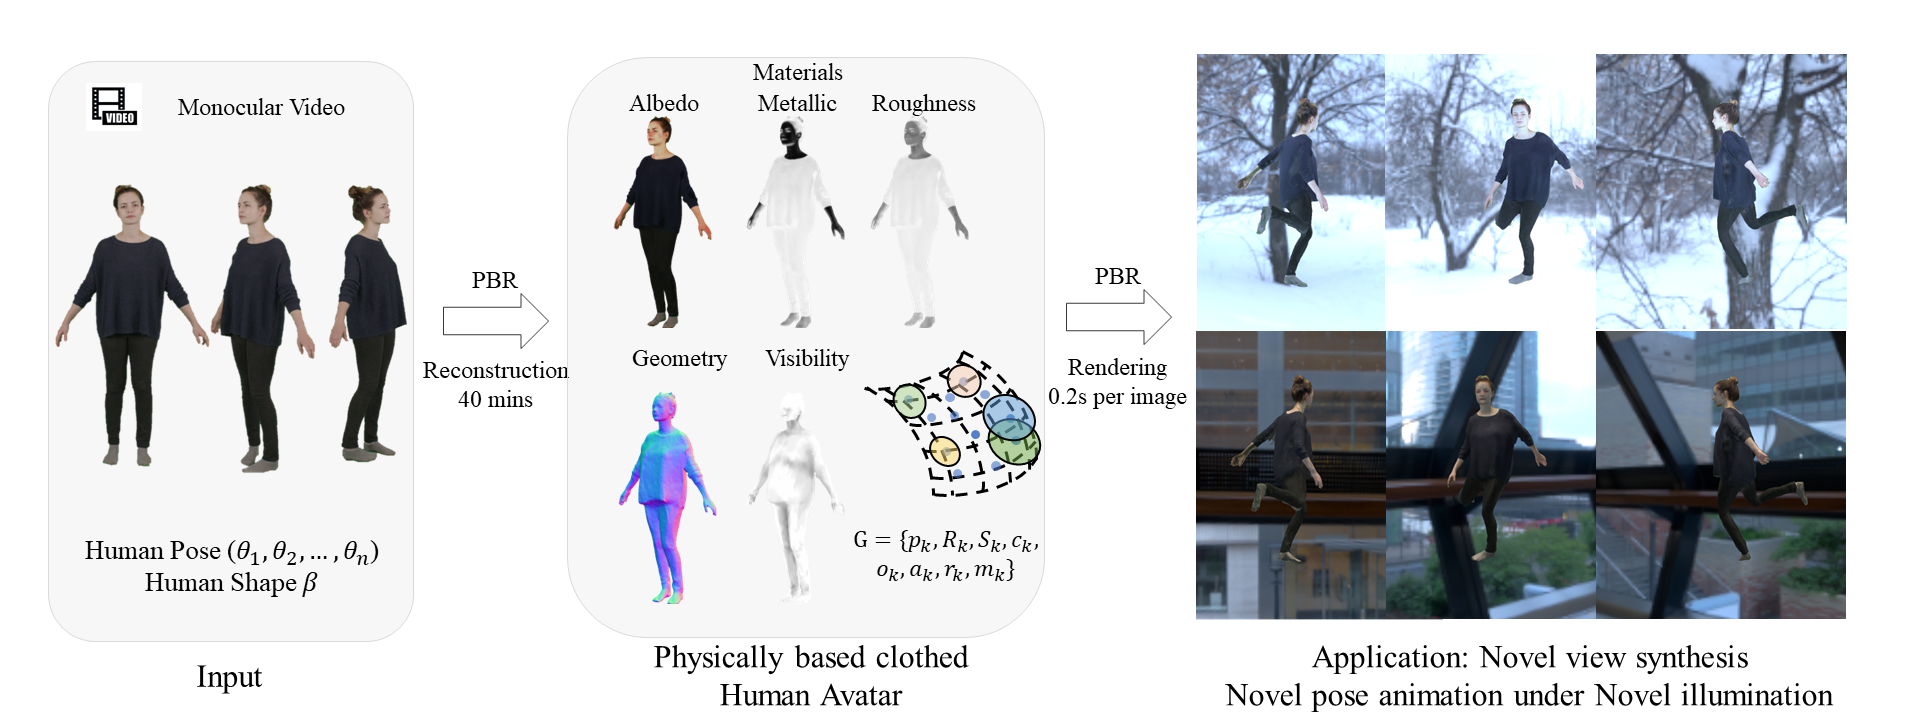
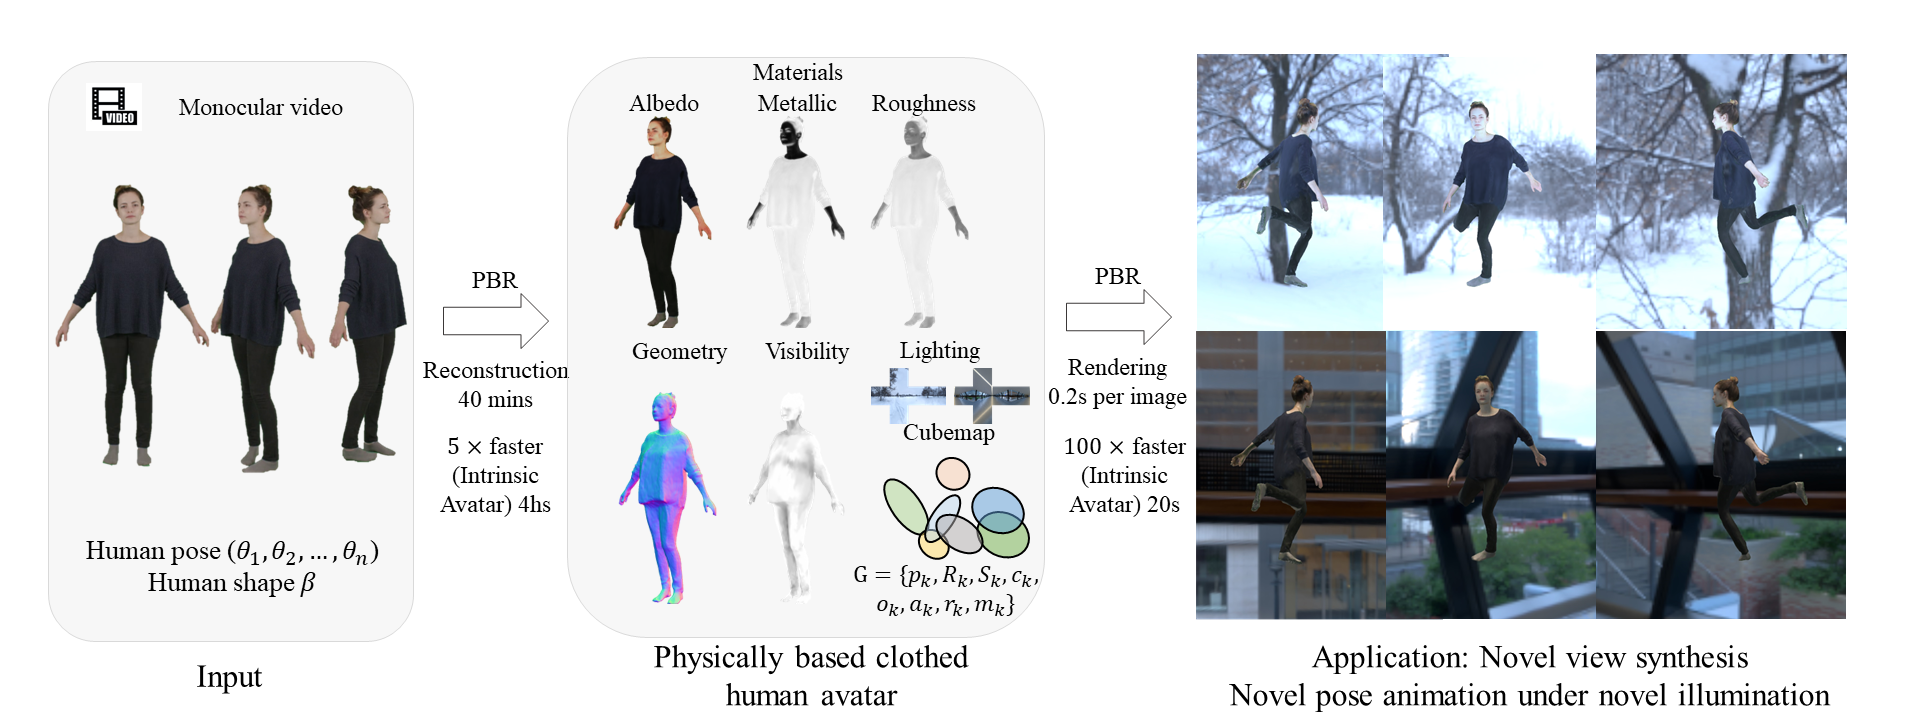
update teaser

diff --git a/index.html b/index.html
@@ -201,7 +201,7 @@
     <section class="hero teaser">
       <div class="container is-max-desktop">
         <div class="hero-body">
-          <img src="static/images/teaserv2.png" alt="GIA" />
+          <img src="static/images/teaser.png" alt="GIA" />
           <h2 class="subtitle has-text-centered" style="font-size: 16px">
             <b>GIA</b>: We achieve fast reconstruction of clothed human avatars with PBR properties from a monocular video. Our approach involves taking a monocular video and initial human pose and shape as input to estimate dynamic clothed humans’ PBR properties, including geometry and materials. Leveraging a Gaussian-surfel-based representation, our method enables fast training and rendering processes. By utilizing the estimated PBR properties, we can not only 
             deform the avatars into different poses but also render them with realistic lighting conditions, allowing for versatile and visually appealing outputs. </h2>
